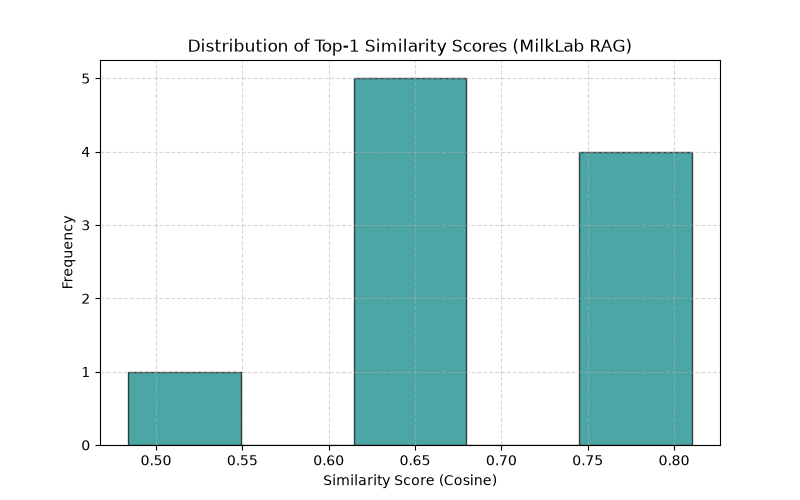
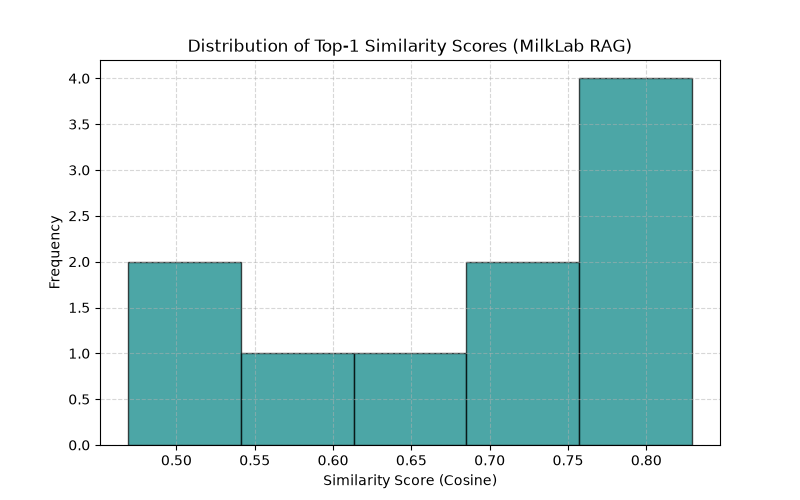
feat: Pivot store exclusively to MilkLab° Gelato homemade ice cream

diff --git a/run_eval.py b/run_eval.py
@@ -15,46 +15,46 @@ from app import load_index
 EVAL_DATASET = [
     {
         "query": "ร้านเปิดกี่โมงและปิดกี่โมง",
-        "ground_truth": ["[เกี่ยวกับร้าน] MilkLab° เป็นร้านนมสดกลางคืน เปิดทุกวันยกเว้นจันทร์ เวลา 20:00 ถึง 01:00 น."]
+        "ground_truth": ["[เกี่ยวกับร้าน] MilkLab° Gelato เป็นร้านไอศกรีมเจลาโต้โฮมเมดพรีเมียม เปิดบริการทุกวันยกเว้นวันจันทร์ เวลา 16:00 ถึง 23:00 น."]
     },
     {
-        "query": "นมหมีฮอกไกโดราคาเท่าไหร่และขนาดเท่าไหร่",
-        "ground_truth": ["[เมนูหลัก] นมหมีฮอกไกโด: 65 บาท (นมสดฮอกไกโด + วิปครีม) ขนาด 350 ml"]
+        "query": "เจลาโต้นมสดฮอกไกโดราคาเท่าไหร่และขนาดเท่าไหร่",
+        "ground_truth": ["[เมนูเจลาโต้หลัก] เจลาโต้นมสดฮอกไกโด (Hokkaido Milk Gelato): 80 บาท (นมสดฮอกไกโดแท้ 100% เข้มข้น หอมนุ่ม) ขนาดถ้วย 120g"]
     },
     {
-        "query": "นมโกโก้บราวนี่ใส่อะไรบ้างราคาเท่าไหร่",
-        "ground_truth": ["[เมนูหลัก] นมโกโก้บราวนี่: 70 บาท (นมสด + ผงโกโก้พรีเมียม + ก้อนบราวนี่) ขนาด 400 ml"]
+        "query": "เจลาโต้ดาร์กช็อกโกแลตรสชาติยังไงราคาเท่าไหร่",
+        "ground_truth": ["[เมนูเจลาโต้หลัก] เจลาโต้ดาร์กช็อกโกแลต (Dark Chocolate Gelato): 85 บาท (ผงโกโก้พรีเมียมเข้มข้น 70%) ขนาดถ้วย 120g"]
     },
     {
         "query": "มีส่วนผสมของถั่วไหม ลูกค้าแพ้ถั่วกินได้ไหม",
-        "ground_truth": ["[Allergen] ลูกค้าแพ้ถั่ว: เมนูทั้งหมดปลอดถั่ว"]
+        "ground_truth": ["[Allergen & สารก่อภูมิแพ้] ปลอดถั่ว (Nut-Free ทุกเมนู ลูกค้าแพ้ถั่วทานได้อย่างปลอดภัย)"]
     },
     {
-        "query": "มีเมนูไหนใส่วิปครีมบ้างและมีสารแพ้อะไร",
+        "query": "มีเจลาโต้รสไหนบ้างที่คนทานมังสวิรัติหรือวีแกนกินได้",
         "ground_truth": [
-            "[เมนูหลัก] นมหมีฮอกไกโด: 65 บาท (นมสดฮอกไกโด + วิปครีม) ขนาด 350 ml",
-            "[Allergen] วิปครีมมี dairy"
+            "[เมนูเจลาโต้หลัก] เจลาโต้สตรอว์เบอร์รีซอร์เบต์ (Strawberry Sorbet Gelato): 85 บาท (สตรอว์เบอร์รีสดแท้ 100%) ขนาดถ้วย 120g",
+            "[Allergen & สารก่อภูมิแพ้] ซอร์เบต์ (สตรอว์เบอร์รีซอร์เบต์, มะม่วงซอร์เบต์): ปลอด dairy/lactose 100% (ผู้ทานมังสวิรัติ / Vegan ทานได้)"
         ]
     },
     {
-        "query": "ค่าส่งเท่าไหร่และส่งไกลแค่ไหน",
-        "ground_truth": ["[FAQ] **ส่งได้ไกลแค่ไหน**: รัศมี 5 กม. ค่าส่ง 30 บาท"]
+        "query": "ค่าส่งเท่าไหร่และส่งไกลแค่ไหนมีแพ็คเจลเย็นไหม",
+        "ground_truth": ["[FAQ] **ส่งได้ไกลแค่ไหน**: บริการจัดส่งรัศมี 5 กม. พร้อมแพ็คเจลเก็บความเย็น ค่าส่ง 30 บาท"]
     },
     {
-        "query": "คนกินมังสวิรัติหรือวีแกนทานนมร้านนี้ได้ไหม",
-        "ground_truth": ["[FAQ] **กิน vegan ได้ไหม**: ไม่มีเมนู vegan ทุกเมนูใส่นมวัว"]
+        "query": "เจลาโต้ชาเขียวมัทฉะใช้ชาเขียวจากไหนราคาเท่าไหร่",
+        "ground_truth": ["[เมนูเจลาโต้หลัก] เจลาโต้ชาเขียวมัทฉะ (Matcha Green Tea Gelato): 90 บาท (ผงมัทฉะเกรดพิธีการจากอุจิ เกียวโต) ขนาดถ้วย 120g"]
     },
     {
-        "query": "สั่งจองเมนูล่วงหน้าทางไหนสั่งได้ถึงกี่โมง",
-        "ground_truth": ["[FAQ] **จองล่วงหน้าได้ไหม**: ได้ ผ่าน LINE OA สั่งก่อน 19:00"]
+        "query": "สั่งจองเจลาโต้ล่วงหน้าทางไหนสั่งได้ถึงกี่โมง",
+        "ground_truth": ["[FAQ] **จองล่วงหน้าได้ไหม**: ได้ ผ่าน LINE OA สั่งก่อน 15:00 น."]
     },
     {
-        "query": "การสั่งซื้อมีกำหนดออเดอร์ขั้นต่ำหรือไม่",
-        "ground_truth": ["[FAQ] **ออเดอร์ขั้นต่ำ**: ไม่มี"]
+        "query": "การสั่งซื้อไอติมเจลาโต้มีกำหนดออเดอร์ขั้นต่ำหรือไม่",
+        "ground_truth": ["[FAQ] **ออเดอร์ขั้นต่ำ**: ไม่มีออเดอร์ขั้นต่ำ"]
     },
     {
-        "query": "นมเสาวรสส่วนผสมมีอะไรและราคาเท่าไหร่",
-        "ground_truth": ["[เมนูหลัก] นมเสาวรส: 60 บาท (นมสด + น้ำเสาวรสสด) ขนาด 350 ml"]
+        "query": "เจลาโต้มะม่วงมหาชนกซอร์เบต์ราคาเท่าไหร่",
+        "ground_truth": ["[เมนูเจลาโต้หลัก] เจลาโต้มะม่วงมหาชนกซอร์เบต์ (Mahachanok Mango Sorbet): 80 บาท (เนื้อมะม่วงมหาชนกสดหวานฉ่ำ) ขนาดถ้วย 120g"]
     }
 ]
 

diff --git a/app.py b/app.py
@@ -86,7 +86,7 @@ def generate_answer(query: str, context_chunks: list[str]) -> str:
     client = genai.Client(api_key=api_key)
     context_str = "\n".join(f"- {c}" for c in context_chunks)
 
-    prompt = f"""คุณเป็น AI ผู้ช่วยบริการลูกค้าของร้าน MilkLab° (ตอบเป็นภาษาไทยอย่างสุภาพและกระชับ)
+    prompt = f"""คุณเป็น AI ผู้ช่วยบริการลูกค้าของร้านไอศกรีมเจลาโต้ MilkLab° Gelato (ตอบเป็นภาษาไทยอย่างสุภาพและกระชับ เป็นกันเอง)
 โปรดตอบคำถามโดยอ้างอิงจากข้อมูลบริบท (Context) ที่กำหนดให้ต่อไปนี้เท่านั้น
 หากในข้อมูลบริบทไม่มีข้อมูลที่จะตอบคำถามได้ ให้ตอบว่า "ขออภัยครับ ไม่พบข้อมูลดังกล่าวในระบบ"
 
@@ -107,9 +107,9 @@ def generate_answer(query: str, context_chunks: list[str]) -> str:
 
 
 def main():
-    st.set_page_config(page_title="MilkLab° RAG", page_icon="🥛")
-    st.title("MilkLab° RAG Chatbot")
-    st.caption("ถามอะไรเกี่ยวกับ MilkLab ได้ ตอบจาก menu_kb.md")
+    st.set_page_config(page_title="MilkLab° Gelato RAG", page_icon="🍨")
+    st.title("🍨 MilkLab° Gelato RAG Chatbot")
+    st.caption("สอบถามข้อมูลเมนูไอศกรีมเจลาโต้ สารก่อภูมิแพ้ หรือการสั่งซื้อ MilkLab° Gelato")
 
     try:
         model, index, chunks = load_index()
@@ -127,7 +127,7 @@ def main():
         with st.chat_message(msg["role"]):
             st.write(msg["content"])
 
-    if prompt := st.chat_input("ถามอะไรเกี่ยวกับ MilkLab"):
+    if prompt := st.chat_input("สอบถามเมนูไอศกรีมเจลาโต้..."):
         st.session_state.messages.append({"role": "user", "content": prompt})
         with st.chat_message("user"):
             st.write(prompt)

diff --git a/agent_harness.py b/agent_harness.py
@@ -79,16 +79,16 @@ def parse_command(cmd: str, api_key: str | None = None) -> dict:
     client = genai.Client(api_key=api_key)
 
     prompt = f"""
-    คุณเป็น AI Agent ของร้าน MilkLab หน้าที่ของคุณคือวิเคราะห์คำสั่งภาษาไทยและเลือกเครื่องมือ (Tool) ที่เหมาะสมที่สุด พร้อมสกัดข้อมูล (Arguments) สำหรับเรียกใช้งานเครื่องมือดังกล่าว
+    คุณเป็น AI Agent ของร้าน MilkLab° Gelato หน้าที่ของคุณคือวิเคราะห์คำสั่งภาษาไทยและเลือกเครื่องมือ (Tool) ที่เหมาะสมที่สุด พร้อมสกัดข้อมูล (Arguments) สำหรับเรียกใช้งานเครื่องมือดังกล่าว
 
     คำสั่งจากผู้ใช้: "{cmd}"
     เวลาปัจจุบัน: {datetime.now().strftime('%Y-%m-%d %H:%M:%S')}
 
     เครื่องมือที่มีให้เลือกใช้งาน:
     1. log_sale: บันทึกยอดขายลงระบบ
-       - menu (string): ชื่อเมนูอาหาร/เครื่องดื่ม/เจลาโต้ เช่น นมหมีฮอกไกโด, นมโกโก้บราวนี่, เจลาโต้นมสดฮอกไกโด, เจลาโต้ดาร์กช็อกโกแลต
-       - qty (integer): จำนวนชิ้น/ขวด/ถ้วย/หน่วย
-       - price (number): ราคาต่อหน่วย
+       - menu (string): ชื่อเมนูเจลาโต้ เช่น เจลาโต้นมสดฮอกไกโด, เจลาโต้ดาร์กช็อกโกแลต, เจลาโต้สตรอว์เบอร์รีซอร์เบต์, เจลาโต้ชาเขียวมัทฉะ, เจลาโต้มะม่วงมหาชนกซอร์เบต์
+       - qty (integer): จำนวนถ้วย/หน่วย
+       - price (number): ราคาต่อหน่วย (บาท)
     2. query_sales: ตรวจสอบ/ดูยอดขายตามวันที่ระบุ
        - date (string): วันที่ในรูปแบบ YYYY-MM-DD (เช่น 2026-07-15) หากผู้ใช้ระบุ "วันนี้" ให้แปลงเป็นวันที่ปัจจุบัน ({datetime.now().strftime('%Y-%m-%d')}) หากระบุ "เมื่อวาน" ให้แปลงย้อนหลัง 1 วัน
     3. send_alert: ส่งแจ้งเตือนทั่วไปเข้าบอทแชท

diff --git a/menu_kb.md b/menu_kb.md
@@ -1,31 +1,28 @@
-# MilkLab° Knowledge Base
+# MilkLab° Gelato Knowledge Base
 
 ## เกี่ยวกับร้าน
 
-MilkLab° เป็นร้านนมสดกลางคืน เปิดทุกวันยกเว้นจันทร์ เวลา 20:00 ถึง 01:00 น.
-ตั้งอยู่หน้ามหาวิทยาลัย รับ delivery ผ่าน LINE OA
+MilkLab° Gelato เป็นร้านไอศกรีมเจลาโต้โฮมเมดพรีเมียม เปิดบริการทุกวันยกเว้นวันจันทร์ เวลา 16:00 ถึง 23:00 น.
+ตั้งอยู่หน้ามหาวิทยาลัย มีบริการส่ง Delivery ผ่าน LINE OA
 
-## เมนูหลัก
+## เมนูเจลาโต้หลัก
 
-- นมหมีฮอกไกโด: 65 บาท (นมสดฮอกไกโด + วิปครีม) ขนาด 350 ml
-- นมโกโก้บราวนี่: 70 บาท (นมสด + ผงโกโก้พรีเมียม + ก้อนบราวนี่) ขนาด 400 ml
-- นมเสาวรส: 60 บาท (นมสด + น้ำเสาวรสสด) ขนาด 350 ml
-- นมเย็นใส่วุ้นนม: 55 บาท (นมสด + วุ้นนม) ขนาด 400 ml
-- เจลาโต้นมสดฮอกไกโด (Hokkaido Milk Gelato): 80 บาท (นมสดฮอกไกโดแท้ เข้มข้น หอมนุ่ม) ขนาด 120g
-- เจลาโต้ดาร์กช็อกโกแลต (Dark Chocolate Gelato): 85 บาท (ช็อกโกแลตแท้ 70% พรีเมียม) ขนาด 120g
-- เจลาโต้สตอเบอร์รี่ซอร์เบต์ (Strawberry Sorbet Gelato): 85 บาท (สตรอว์เบอร์รีสด 100% ไม่ใส่นม) ขนาด 120g
+- เจลาโต้นมสดฮอกไกโด (Hokkaido Milk Gelato): 80 บาท (นมสดฮอกไกโดแท้ 100% เข้มข้น หอมนุ่ม) ขนาดถ้วย 120g
+- เจลาโต้ดาร์กช็อกโกแลต (Dark Chocolate Gelato): 85 บาท (ผงโกโก้พรีเมียมเข้มข้น 70%) ขนาดถ้วย 120g
+- เจลาโต้สตรอว์เบอร์รีซอร์เบต์ (Strawberry Sorbet Gelato): 85 บาท (สตรอว์เบอร์รีสดแท้ 100%) ขนาดถ้วย 120g
+- เจลาโต้ชาเขียวมัทฉะ (Matcha Green Tea Gelato): 90 บาท (ผงมัทฉะเกรดพิธีการจากอุจิ เกียวโต) ขนาดถ้วย 120g
+- เจลาโต้มะม่วงมหาชนกซอร์เบต์ (Mahachanok Mango Sorbet): 80 บาท (เนื้อมะม่วงมหาชนกสดหวานฉ่ำ) ขนาดถ้วย 120g
 
-## Allergen
+## Allergen & สารก่อภูมิแพ้
 
-- ทุกเมนูนมและเจลาโต้นมสดมี lactose จาก milk
-- บราวนี่มี gluten (wheat)
-- วิปครีมมี dairy
-- สตรอว์เบอร์รีซอร์เบต์ ปลอด dairy/lactose (Vegan ทานได้)
-- ลูกค้าแพ้ถั่ว: เมนูทั้งหมดปลอดถั่ว
+- เจลาโต้รสที่มีนม (นมสดฮอกไกโด, ดาร์กช็อกโกแลต, มัทฉะ): มี dairy และ lactose จากนมวัว
+- ซอร์เบต์ (สตรอว์เบอร์รีซอร์เบต์, มะม่วงซอร์เบต์): ปลอด dairy/lactose 100% (ผู้ทานมังสวิรัติ / Vegan ทานได้)
+- ปลอดแป้งและกลูเตน (Gluten-Free ทุกเมนู)
+- ปลอดถั่ว (Nut-Free ทุกเมนู ลูกค้าแพ้ถั่วทานได้อย่างปลอดภัย)
 
 ## FAQ
 
-**ส่งได้ไกลแค่ไหน**: รัศมี 5 กม. ค่าส่ง 30 บาท
-**จองล่วงหน้าได้ไหม**: ได้ ผ่าน LINE OA สั่งก่อน 19:00
-**กิน vegan ได้ไหม**: ไม่มีเมนู vegan ทุกเมนูใส่นมวัว
-**ออเดอร์ขั้นต่ำ**: ไม่มี
+**ส่งได้ไกลแค่ไหน**: บริการจัดส่งรัศมี 5 กม. พร้อมแพ็คเจลเก็บความเย็น ค่าส่ง 30 บาท
+**จองล่วงหน้าได้ไหม**: ได้ ผ่าน LINE OA สั่งก่อน 15:00 น.
+**คนทาน Vegan / เจ ทานได้ไหม**: ทานได้ เลือกเมนู Strawberry Sorbet หรือ Mango Sorbet
+**ออเดอร์ขั้นต่ำ**: ไม่มีออเดอร์ขั้นต่ำ